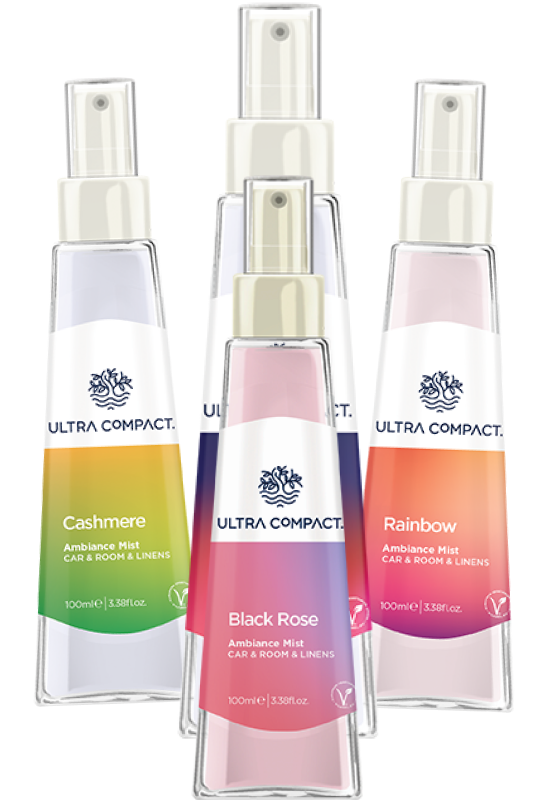
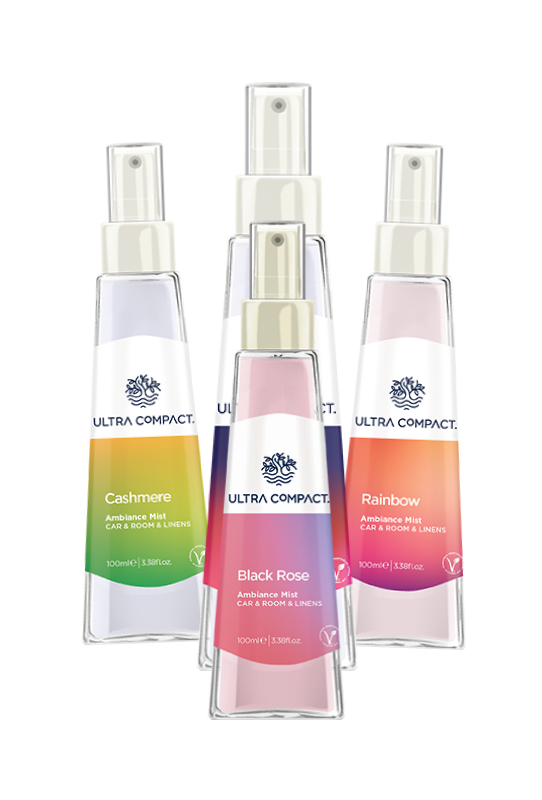
somes changes

diff --git a/styles/04-components/_homepage.scss b/styles/04-components/_homepage.scss
@@ -11,7 +11,7 @@
         max-width: 100px;
     }
     &__img {
-        width: 35%;
+        width: 40%;
         object-fit: cover;
     }
 }
